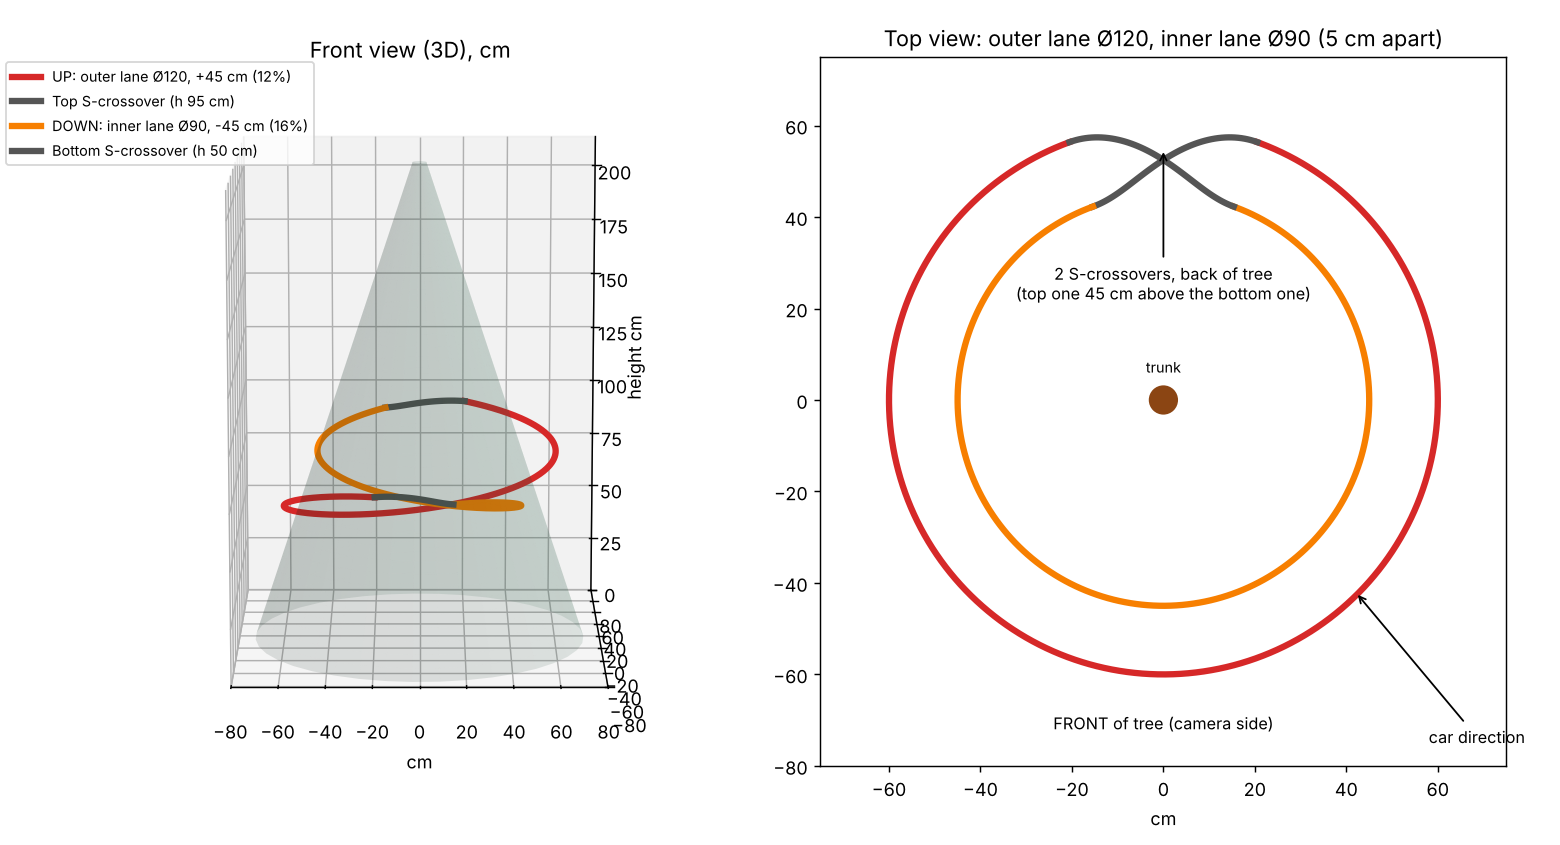
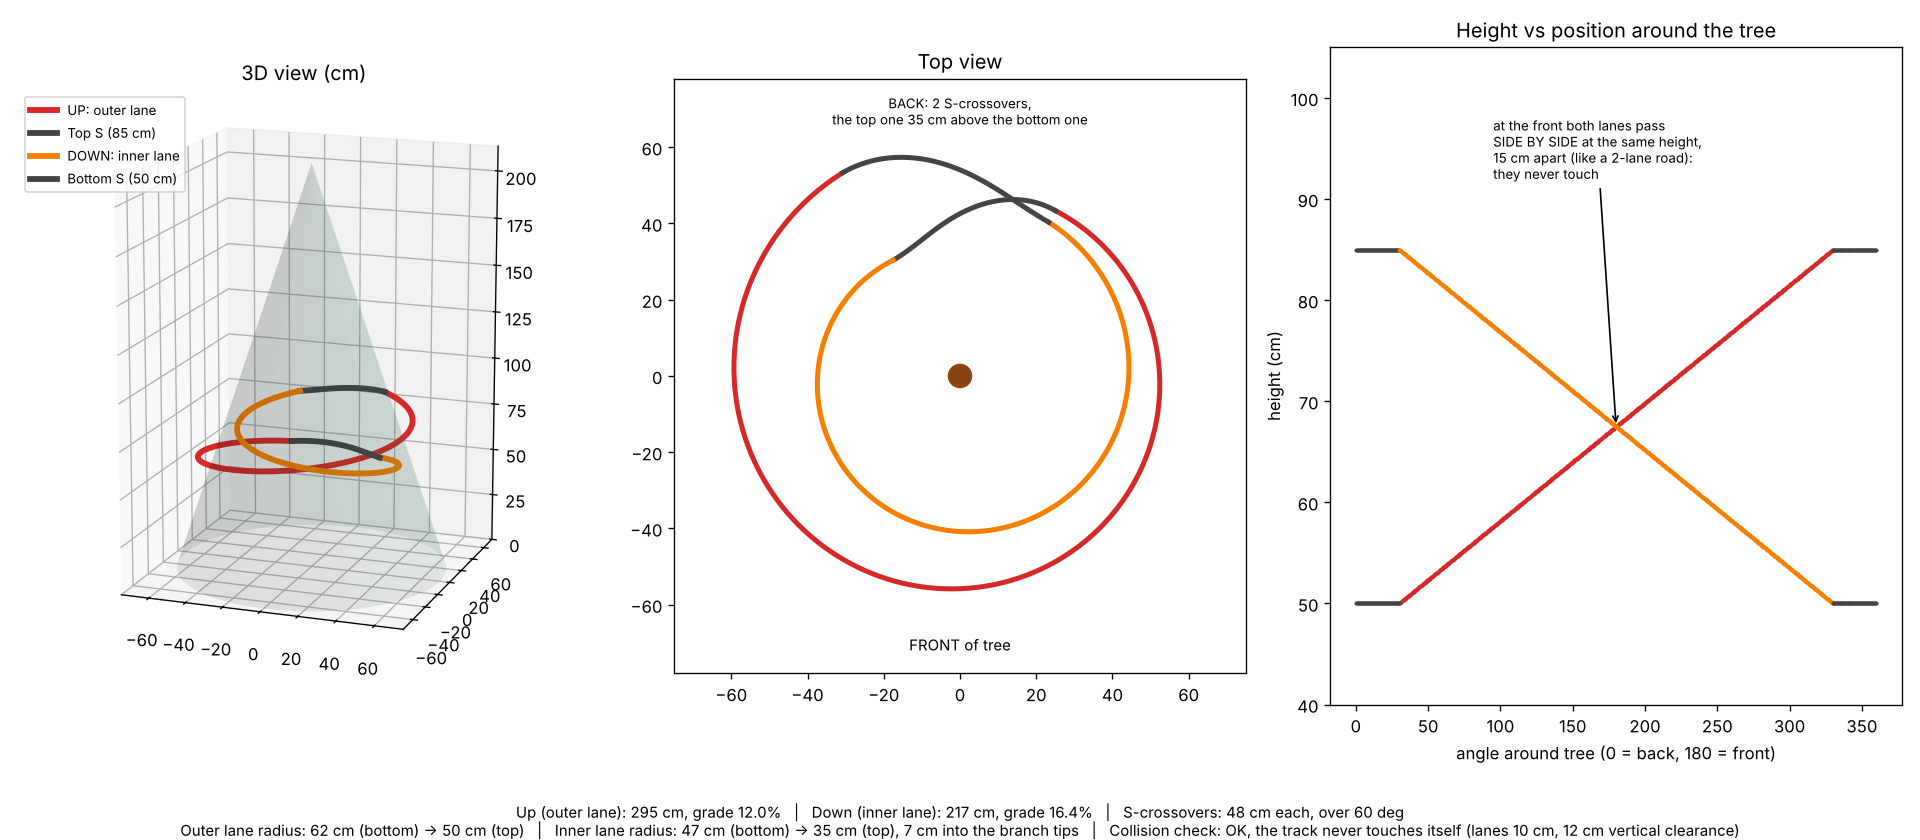
F1 Tree Racer: schema traseului verificata (urmeaza conul, pante corecte, verificare coliziuni)
Claude-Session: https://claude.ai/code/session_0182QBD7L6o3B4fpDgewD35i

diff --git a/products/f1-tree-racer/schema_traseu.py b/products/f1-tree-racer/schema_traseu.py
@@ -1,38 +1,70 @@
+"""Schema traseului F1 Tree Racer (v2, 23 oct): pista urmează conul bradului, S-uri pe 60°, verificare de coliziuni."""
 import numpy as np, matplotlib
 matplotlib.use("Agg"); import matplotlib.pyplot as plt
-Ro,Ri,H,h0=60,45,45,50
-# crossover sector at the back: theta 250..290 deg (back = 270)
-c0,c1=np.radians(70),np.radians(110)
-def path():
-    pts=[]
-    # up spiral outer: from theta=c1 to c0+2pi, h 50->95
-    t=np.linspace(c1,c0+2*np.pi,400); f=(t-c1)/(c0+2*np.pi-c1)
-    pts.append(np.c_[Ro*np.cos(t),Ro*np.sin(t),h0+H*f,np.zeros_like(t)])
-    # top S: c0->c1 (next turn), R 60->45 at h 95
-    t=np.linspace(c0,c1,60); s=(1-np.cos(np.pi*(t-c0)/(c1-c0)))/2
-    R=Ro+(Ri-Ro)*s; pts.append(np.c_[R*np.cos(t),R*np.sin(t),np.full_like(t,h0+H),np.ones_like(t)])
-    # down spiral inner: c1 -> c0+2pi, h 95->50
-    t=np.linspace(c1,c0+2*np.pi,400); f=(t-c1)/(c0+2*np.pi-c1)
-    pts.append(np.c_[Ri*np.cos(t),Ri*np.sin(t),h0+H*(1-f),2*np.ones_like(t)])
-    # bottom S: R 45->60 at h 50
-    t=np.linspace(c0,c1,60); s=(1-np.cos(np.pi*(t-c0)/(c1-c0)))/2
-    R=Ri+(Ro-Ri)*s; pts.append(np.c_[R*np.cos(t),R*np.sin(t),np.full_like(t,h0),3*np.ones_like(t)])
-    return pts
-P=path(); col=['#d62828','#555555','#f77f00','#555555']; lab=['UP: outer lane Ø120, +45 cm (12%)','Top S-crossover (h 95 cm)','DOWN: inner lane Ø90, -45 cm (16%)','Bottom S-crossover (h 50 cm)']
-fig=plt.figure(figsize=(12,6.5))
-ax=fig.add_subplot(1,2,1,projection='3d')
-# tree cone
-z=np.linspace(0,213,40); th=np.linspace(0,2*np.pi,40); Z,T=np.meshgrid(z,th); Rr=70*(1-Z/213)+3
-ax.plot_surface(Rr*np.cos(T),Rr*np.sin(T),Z,color='#2d6a4f',alpha=0.12,linewidth=0)
-for p,c,l in zip(P,col,lab): ax.plot(p[:,0],p[:,1],p[:,2],color=c,lw=3.5,label=l)
-ax.set_xlim(-80,80);ax.set_ylim(-80,80);ax.set_zlim(0,213);ax.set_box_aspect((160,160,213))
-ax.view_init(elev=12,azim=-90); ax.set_title('Front view (3D), cm'); ax.set_xlabel('cm');ax.set_zlabel('height cm')
-ax.legend(loc='upper left',fontsize=8,bbox_to_anchor=(-0.1,1.02))
-ax2=fig.add_subplot(1,2,2)
-for p,c in zip(P,col): ax2.plot(p[:,0],p[:,1],color=c,lw=3.5)
-ax2.add_patch(plt.Circle((0,0),3,color='saddlebrown')); ax2.text(0,6,'trunk',ha='center',fontsize=8)
-ax2.annotate('2 S-crossovers, back of tree\n(top one 45 cm above the bottom one)',xy=(0,55),xytext=(0,22),ha='center',fontsize=9,arrowprops=dict(arrowstyle='->'))
-ax2.annotate('car direction',xy=(42,-42),xytext=(58,-75),fontsize=9,arrowprops=dict(arrowstyle='->'))
-ax2.set_aspect('equal'); ax2.set_xlim(-75,75); ax2.set_ylim(-80,75); ax2.set_title('Top view: outer lane Ø120, inner lane Ø90 (5 cm apart)'); ax2.set_xlabel('cm')
-ax2.text(0,-72,'FRONT of tree (camera side)',ha='center',fontsize=9)
-plt.tight_layout(); plt.savefig('schema-traseu.png',dpi=130)
+TREE_H, TREE_R = 213, 70                      # brad 7 ft, raza la bază 70 cm
+tree = lambda h: TREE_R * (1 - h / TREE_H)
+H0, H1 = 50, 85                               # jos / sus (cm de la podea)
+OUT_GAP, LANE_SEP = 8, 15                     # pista exterioară la 8 cm de vârful crengilor; interioara cu 15 cm mai înăuntru
+c0, c1 = np.radians(60), np.radians(120)      # sectorul S-urilor, în spate (90°)
+span = c0 + 2 * np.pi - c1
+Rout = lambda h: tree(h) + OUT_GAP
+Rin = lambda h: tree(h) + OUT_GAP - LANE_SEP
+def seg(t, R, h, kind): return np.c_[R * np.cos(t), R * np.sin(t), h, np.full_like(t, kind)]
+def ease(t, a, b): return (1 - np.cos(np.pi * (t - a) / (b - a))) / 2
+N = 600
+t = np.linspace(c1, c0 + 2 * np.pi, N); f = (t - c1) / span
+up = seg(t, Rout(H0 + (H1 - H0) * f), H0 + (H1 - H0) * f, 0)
+t = np.linspace(c0, c1, 120); e = ease(t, c0, c1)
+topS = seg(t, Rout(H1) + (Rin(H1) - Rout(H1)) * e, np.full_like(t, H1), 1)
+t = np.linspace(c1, c0 + 2 * np.pi, N); f = (t - c1) / span
+down = seg(t, Rin(H1 - (H1 - H0) * f), H1 - (H1 - H0) * f, 2)
+t = np.linspace(c0, c1, 120); e = ease(t, c0, c1)
+botS = seg(t, Rin(H0) + (Rout(H0) - Rin(H0)) * e, np.full_like(t, H0), 3)
+segs = [up, topS, down, botS]
+
+def length(p): return np.sum(np.linalg.norm(np.diff(p[:, :3], axis=0), axis=1))
+def grade(p): return (p[-1, 2] - p[0, 2]) / np.sum(np.linalg.norm(np.diff(p[:, :2], axis=0), axis=1)) * 100
+# coliziuni: puncte din bucăți diferite, nevecine, prea aproape (bandă 10 cm, gabarit vertical 12 cm)
+allp = np.vstack(segs); idx = np.arange(len(allp)); worst = 1e9; where = None
+for i in range(0, len(allp), 3):
+    d_xy = np.hypot(allp[:, 0] - allp[i, 0], allp[:, 1] - allp[i, 1]); d_z = np.abs(allp[:, 2] - allp[i, 2])
+    far = np.abs(idx - i) > 60; far &= np.abs(idx - i) < len(allp) - 60
+    bad = far & (d_xy < 11) & (d_z < 12)
+    if bad.any(): worst = 0; where = allp[i]
+    m = np.min(np.where(far, np.maximum(d_xy - 11, 0) + np.maximum(d_z - 12, 0), 1e9))
+    worst = min(worst, m)
+report = [
+    f"Up (outer lane): {length(up):.0f} cm, grade {grade(up):.1f}%",
+    f"Down (inner lane): {length(down):.0f} cm, grade {abs(grade(down)):.1f}%",
+    f"S-crossovers: {length(topS):.0f} cm each, over {np.degrees(c1-c0):.0f} deg",
+    f"Outer lane radius: {Rout(H0):.0f} cm (bottom) -> {Rout(H1):.0f} cm (top)",
+    f"Inner lane radius: {Rin(H0):.0f} cm (bottom) -> {Rin(H1):.0f} cm (top), 7 cm into the branch tips",
+    "Collision check: " + ("OK, the track never touches itself (lanes 10 cm, 12 cm vertical clearance)" if where is None else f"PROBLEM at {where[:3].round(0)}"),
+]
+print("\n".join(report))
+
+col = ['#d62828', '#444444', '#f77f00', '#444444']
+lab = ['UP: outer lane', 'Top S (85 cm)', 'DOWN: inner lane', 'Bottom S (50 cm)']
+fig = plt.figure(figsize=(16, 7))
+ax = fig.add_subplot(1, 3, 1, projection='3d')
+z = np.linspace(0, TREE_H, 40); th = np.linspace(0, 2 * np.pi, 40); Z, T = np.meshgrid(z, th)
+ax.plot_surface(tree(Z) * np.cos(T), tree(Z) * np.sin(T), Z, color='#2d6a4f', alpha=0.10, linewidth=0)
+for p, c, l in zip(segs, col, lab): ax.plot(p[:, 0], p[:, 1], p[:, 2], color=c, lw=3.5, label=l)
+ax.set_xlim(-75, 75); ax.set_ylim(-75, 75); ax.set_zlim(0, 213); ax.set_box_aspect((150, 150, 213))
+ax.view_init(elev=15, azim=-70); ax.set_title('3D view (cm)'); ax.legend(loc='upper left', fontsize=8)
+ax2 = fig.add_subplot(1, 3, 2)
+for p, c in zip(segs, col): ax2.plot(p[:, 0], p[:, 1], color=c, lw=3)
+ax2.add_patch(plt.Circle((0, 0), 3, color='saddlebrown'))
+ax2.text(0, 66, 'BACK: 2 S-crossovers,\nthe top one 35 cm above the bottom one', ha='center', fontsize=8)
+ax2.text(0, -72, 'FRONT of tree', ha='center', fontsize=9)
+ax2.set_aspect('equal'); ax2.set_xlim(-75, 75); ax2.set_ylim(-78, 78); ax2.set_title('Top view')
+ax3 = fig.add_subplot(1, 3, 3)
+for p, c, l in zip(segs, col, lab):
+    ang = (np.degrees(np.arctan2(p[:, 1], p[:, 0])) - 90) % 360
+    ax3.scatter(ang, p[:, 2], s=2, color=c)
+ax3.set_xlabel('angle around tree (0 = back, 180 = front)'); ax3.set_ylabel('height (cm)')
+ax3.set_title('Height vs position around the tree')
+ax3.annotate('at the front both lanes pass\nSIDE BY SIDE at the same height,\n15 cm apart (like a 2-lane road):\nthey never touch', xy=(180, 67.5), xytext=(95, 92), fontsize=8, arrowprops=dict(arrowstyle='->'))
+ax3.set_ylim(40, 105)
+fig.text(0.5, 0.005, "   |   ".join(report[:3]) + "\n" + "   |   ".join(report[3:]), ha='center', fontsize=9)
+plt.tight_layout(rect=(0, 0.07, 1, 1)); plt.savefig('/home/user/limitless/products/f1-tree-racer/schema-traseu.png', dpi=120)

diff --git a/products/f1-tree-racer/supplier-spec.md b/products/f1-tree-racer/supplier-spec.md
@@ -21,19 +21,19 @@ It is a **slot-car system** (the same principle as Scalextric / Carrera), plus a
 - Low voltage only. Child-safe: 8+ with adult setup.
 
 ## 3. Track layout on the tree (one endless loop: up around the tree, then down around the tree)
-The car climbs one full turn around the tree, crosses over at the back, comes down one full turn around the tree, crosses back and starts again. Single lane, one continuous closed circuit, no switches, and the track never crosses itself at the same height.
+The car climbs one full turn around the tree, crosses over at the back, comes down one full turn around the tree, crosses back and starts again. Single lane, one continuous closed circuit, no switches, and the track never touches itself. All dimensions below are checked in `schema_traseu.py`, which draws `schema-traseu.png`.
 
-- **Up spiral (outer lane):** radius 60 cm (Ø 120 cm). One full turn (about 3.77 m) rising 45 cm, from about 50 cm to about 95 cm above the floor. Grade about 12%.
-- **Down spiral (inner lane):** radius 45 cm (Ø 90 cm). One full turn (about 2.83 m) descending 45 cm. Grade about 16% downhill. It runs 15 cm inside the up spiral, so the two lanes are always side by side (5 cm gap between the lane edges) and never touch.
-- **Top crossover:** at the back of the tree, at the top (about 95 cm), a short S-bend (about 40° of the circle) moves the car from the outer lane to the inner lane.
-- **Bottom crossover:** at the same spot, 45 cm lower (about 50 cm), an S-bend moves the car from the inner lane back to the outer lane. The top crossover passes 45 cm above the bottom one.
-- Both lanes are 100 mm wide (the car is 60 mm wide). All curves are banked 5° inward and the outer edges have the clear guard lip.
-- Pieces: about 12 outer-radius climbing curves, about 12 inner-radius descending curves and 2 S-crossover pieces, each with factory-set slope. Pieces snap together with tabs. Rails connect through metal joiners.
-- One car runs the loop. A second car can follow it on the same lane.
-- Power is fed at the bottom crossover. Speed is limited for the downhill.
+- The track follows the cone of the tree. The radius gets smaller as the track goes up, so it always sits just outside the branch tips.
+- **Up spiral (outer lane):** about 320° around the tree. Radius 62 cm at the bottom down to 50 cm at the top, about 8 cm outside the branch tips. Climbs 35 cm, from 50 cm to 85 cm above the floor. Length about 2.95 m, grade 12%.
+- **Down spiral (inner lane):** about 320° around the tree. Always 15 cm inside the outer lane: radius 47 cm at the bottom down to 35 cm at the top, about 7 cm into the branch tips. Descends 35 cm. Length about 2.17 m, grade 16.4% downhill.
+- At the front of the tree both lanes pass side by side at the same height, 15 cm apart centre to centre (5 cm between the lane edges), like a two-lane road. They never touch.
+- **Top crossover (85 cm) and bottom crossover (50 cm):** two S-bends at the back of the tree, each over 60° of the circle, about 48 cm long, shifting the lane by 15 cm (bend radius about 36 cm). The top S passes 35 cm above the bottom S.
+- Lane 100 mm wide (the car is 60 mm wide). Curves are banked 5° inward. Clear guard lip on the outer edges.
+- Pieces: outer climbing curves, inner descending curves and 2 S-crossovers, each with a factory-set slope and radius (numbered for assembly). Pieces snap together with tabs. Rails connect through metal joiners.
+- One car runs the loop. A second car can follow it on the same lane. Speed is limited for the downhill.
 
 ## 4. Mounting
-- **2 trunk collar clamps** (black, adjustable, fit trunks / centre poles of 2–5 cm), one at about 50 cm and one at about 95 cm, clamped to the trunk.
+- **2 trunk collar clamps** (black, adjustable, fit trunks / centre poles of 2–5 cm), one at about 50 cm and one at about 85 cm, clamped to the trunk.
 - **6 support arms per collar** (black, adjustable length and height) go out radially. Each arm has two track holders, outer and inner lane, that clip under the track and set its height on the spiral.
 - **Clear branch clips** only stabilise the track against the branches.
 - Total weight of track + cars well under 2.5 kg. Fits artificial and real trees from 6 to 7.5 ft. Assembly is tool-free, about 15 minutes.
@@ -48,21 +48,20 @@ The car climbs one full turn around the tree, crosses over at the back, comes do
 
 ## 7. Questions for the supplier
 - Unit cost of the car and of the full set at MOQ.
-- Can they make the up/down spiral (outer Ø 120 cm climbing 45 cm, inner Ø 90 cm descending 45 cm, 2 S-crossovers) with fixed-slope curve pieces?
+- Can they make the up/down spiral (dimensions in section 3 and in schema-traseu.png) with numbered, fixed-slope curve pieces?
 - How much does the full set weigh?
 - Certifications for the US (CPSC / ASTM F963, FCC if wireless).
 - Shipping to the USA: time and cost.
 
-## 8. Key dimensions (all product photos follow these)
+## 8. Key dimensions (from schema_traseu.py)
 | Part | Size |
 |---|---|
-| Up spiral (outer lane) | Ø 120 cm, 1 turn, climbs 45 cm (50 → 95 cm above the floor), about 12% |
-| Down spiral (inner lane) | Ø 90 cm, 1 turn, descends 45 cm, about 16% |
-| Gap between lanes | 15 cm centre to centre (5 cm between lane edges) |
-| Crossovers | 2 S-bends at the back of the tree, at 95 cm and at 50 cm |
+| Up spiral (outer lane) | radius 62 → 50 cm, climbs 50 → 85 cm above the floor, 2.95 m long, 12% |
+| Down spiral (inner lane) | radius 47 → 35 cm (15 cm inside the outer lane), 2.17 m long, 16.4% |
+| S-crossovers | 2, at the back of the tree, 60° each, about 48 cm long, 35 cm apart vertically |
 | Lane width | 100 mm, slot in the centre, 2 steel rails |
 | Outer guard lip | 15 mm high, clear |
 | Car | 160 × 60 mm, 1:32 |
 | Trunk collar | fits Ø 20–50 mm |
-| Support arms | 6 per collar, adjustable 30–60 cm |
+| Support arms | 6 per collar, adjustable 30–60 cm, 2 holders each (outer + inner lane) |
 | Box | about 60 × 40 × 15 cm |

diff --git a/products/f1-tree-racer.md b/products/f1-tree-racer.md
@@ -61,3 +61,7 @@ Soluția (fără să se ciocnească pista cu ea însăși): exterior Ø120 urcă
 - Schema exactă: `schema-traseu.png` (generată de `schema_traseu.py`) — asta se trimite la furnizor.
 - Poze AI aproximative (nu respectă exact geometria): set/spirala-fata.jpg d32c24a1-e27e-47e6-885b-26932433d341, set/spirala-spate.jpg 5ffa2356-b942-4460-84eb-45a0eb63ab85
 - Fișa furnizor actualizată (secțiunile 3, 4, 5, 7, 8).
+
+## 23 oct — schema verificată (v2) după „verifică și vezi că nu e ok”
+Greșeli găsite în v1: pista nu urma conul bradului (21 cm în aer sus, 9 cm în crengi jos); pante subestimate (13,4% / 17,9%, nu 12/16); S-uri prea strânse (rază 26 cm); pozele AI arătau pistele unindu-se.
+v2: pista urmează conul, urcă 50→85 cm (35 cm), urcare 12%, coborâre 16,4%, S-uri 60° (rază ~36 cm), verificare automată de coliziuni = OK. Poze AI spirala-* = NU se folosesc (geometrie greșită).
